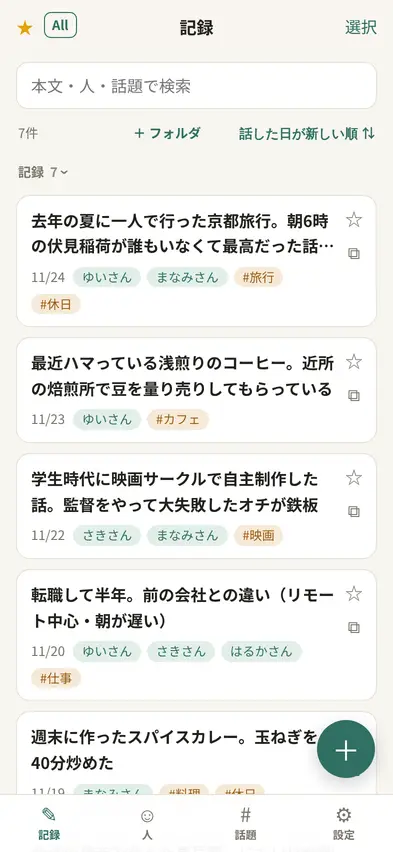
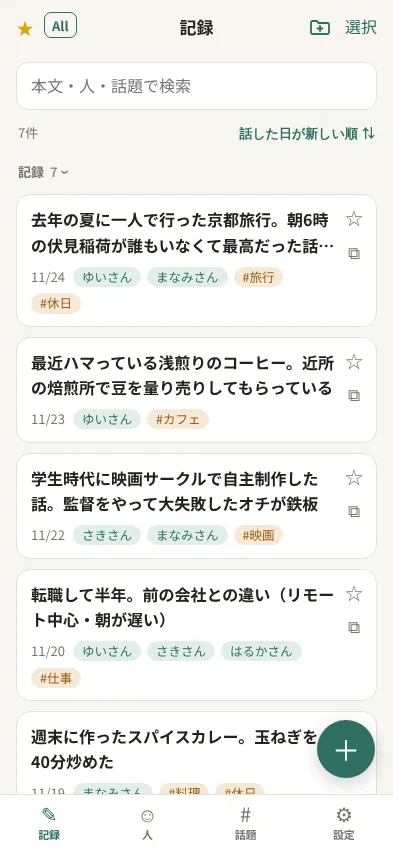
フォルダ作成を見出し右上のアイコンに(iPhoneのメモ風)
記録・人・話題の一覧で「＋ フォルダ」の文字ボタンをやめ、見出しの選択の左にフォルダ追加アイコンを置く。
件数と並べ替えは1行に戻す。使い方ガイドの画像と番号位置を更新。

Claude-Session: https://claude.ai/code/session_01QRm74mVWTBQZWExhZA7Aoa

diff --git a/src/ui/screens.tsx b/src/ui/screens.tsx
@@ -87,7 +87,7 @@ export function FolderScreen({ folderId }: { folderId: ID | null }) {
         title={folder ? folder.name : t('記録')}
         lead={<TitleIcons scope="entry" />}
         left={folder && <UpButton scope="entry" parent={parent} />}
-        right={<span className="header-actions">{!editing && <SelectButton />}{folder && !selecting && <button className="link" onClick={() => setEditing(!editing)}>{editing ? t('閉じる') : t('編集')}</button>}</span>}
+        right={<span className="header-actions">{!editing && !adding && !selecting && !flat && <FolderAddButton onClick={() => setAdding(true)} />}{!editing && <SelectButton />}{folder && !selecting && <button className="link" onClick={() => setEditing(!editing)}>{editing ? t('閉じる') : t('編集')}</button>}</span>}
       />
       <Crumbs scope="entry" path={path} />
       {editing && folder ? (
@@ -109,10 +109,7 @@ export function FolderScreen({ folderId }: { folderId: ID | null }) {
                 <span className="count">
                   {children.length > 0 && t('{n}フォルダ・', { n: children.length })}{t('{n}件', { n: memos.length })}
                 </span>
-                <span className="toolbar-right">
-                  {!adding && !selecting && !flat && <button className="link small-link" onClick={() => setAdding(true)}>{t('＋ フォルダ')}</button>}
-                  <SortSelect value={sort} options={ENTRY_SORTS} onChange={setSort} />
-                </span>
+                <SortSelect value={sort} options={ENTRY_SORTS} onChange={setSort} />
               </div>
               <FolderRows
                 scope="entry" folderId={folderId} children={children} count={deepCount} adding={adding} setAdding={setAdding} reorder={sort === 'manual'}
@@ -137,7 +134,7 @@ export function FolderScreen({ folderId }: { folderId: ID | null }) {
                 reorder={sort === 'manual'}
                 empty={
                   folder
-                    ? <>{t('このフォルダはまだ空です。')}<br />{t('右下の＋で記録を、「＋ フォルダ」でフォルダを作れます。')}</>
+                    ? <>{t('このフォルダはまだ空です。')}<br />{t('右下の＋で記録を、右上のフォルダのアイコンでフォルダを作れます。')}</>
                     : children.length ? t('フォルダに入っていない記録はありません') : <>{t('まだ記録がありません。')}<br />{t('右下の＋から、話したことを書いてみましょう。')}</>
                 }
              />}
@@ -389,7 +386,7 @@ export function NameFolderScreen({ kind, folderId }: { kind: NameKind; folderId:
         title={folder ? folder.name : label}
         lead={<TitleIcons scope={kind} />}
         left={folder && <UpButton scope={kind} parent={parent} />}
-        right={<span className="header-actions">{!editing && <SelectButton />}{folder && !selecting && <button className="link" onClick={() => setEditing(!editing)}>{editing ? t('閉じる') : t('編集')}</button>}</span>}
+        right={<span className="header-actions">{!editing && !adding && !selecting && !flat && <FolderAddButton onClick={() => setAdding(true)} />}{!editing && <SelectButton />}{folder && !selecting && <button className="link" onClick={() => setEditing(!editing)}>{editing ? t('閉じる') : t('編集')}</button>}</span>}
       />
       <Crumbs scope={kind} path={path} />
       {editing && folder ? (
@@ -418,10 +415,7 @@ export function NameFolderScreen({ kind, folderId }: { kind: NameKind; folderId:
                 <span className="count">
                   {children.length > 0 && t('{n}フォルダ・', { n: children.length })}{t(unit, { n: here.length })}
                 </span>
-                <span className="toolbar-right">
-                  {!adding && !selecting && !flat && <button className="link small-link" onClick={() => setAdding(true)}>{t('＋ フォルダ')}</button>}
-                  <SortSelect value={sort} options={NAME_SORTS} onChange={setSort} />
-                </span>
+                <SortSelect value={sort} options={NAME_SORTS} onChange={setSort} />
               </div>
               <FolderRows scope={kind} folderId={folderId} children={children} count={deepCount} adding={adding} setAdding={setAdding} reorder={sort === 'manual'} />
               <PinnedSplit kind={kind} items={here} sort={sort} restTitle={label} />
@@ -767,5 +761,17 @@ function Missing() {
       <Header title="" left={<button className="link" onClick={() => back()}>{t('‹ 戻る')}</button>} />
       <div className="empty">{t('見つかりませんでした（削除された可能性があります）')}</div>
     </div>
+  );
+}
+
+// iPhoneのメモと同じく、見出しの右上のアイコンでフォルダを作る
+function FolderAddButton({ onClick }: { onClick: () => void }) {
+  return (
+    <button className="icon-btn folder-add" onClick={onClick} aria-label={t('新しいフォルダ')} title={t('新しいフォルダ')}>
+      <svg width="24" height="24" viewBox="0 0 24 24" fill="none" stroke="currentColor" strokeWidth="1.8" strokeLinecap="round" strokeLinejoin="round" aria-hidden="true">
+        <path d="M3 7.5A1.5 1.5 0 0 1 4.5 6h4.2l2 2h8.8A1.5 1.5 0 0 1 21 9.5v8a1.5 1.5 0 0 1-1.5 1.5h-15A1.5 1.5 0 0 1 3 17.5z" />
+        <path d="M12 11v5M9.5 13.5h5" />
+      </svg>
+    </button>
   );
 }

diff --git a/src/ui/styles.css b/src/ui/styles.css
@@ -243,7 +243,6 @@ html, body { overscroll-behavior-y: none; }
 /* ---- v0.4 フォルダの入れ子 ---- */
 .folder-rows { margin-bottom: 12px; }
 .folder-icon { color: var(--topic); margin-right: 8px; }
-.toolbar-right { display: inline-flex; align-items: center; gap: 14px; }
 .small-link { font-size: 13px; font-weight: 600; padding: 4px 0; }
 .field .select { max-width: 100%; }
 .crumbs { display: flex; flex-wrap: wrap; align-items: center; gap: 2px; margin: -4px 2px 10px; font-size: 13px; }
@@ -295,6 +294,7 @@ html, body { overscroll-behavior-y: none; }
   color: var(--accent); font-size: 17px; line-height: 1;
 }
 .icon-btn.fav { color: var(--fav); }
+.icon-btn.folder-add { width: 34px; height: 34px; margin-right: -6px; }
 .icon-btn:active { background: var(--line); }
 .fav-btn {
   width: 32px; height: 32px; border-radius: 8px; display: inline-flex; align-items: center; justify-content: center;
@@ -358,7 +358,6 @@ body.dragging { cursor: grabbing; }
 .link.danger { color: var(--danger); }
 .header-actions { display: inline-flex; gap: 14px; align-items: center; }
 .header-actions .small-link { font-size: 16px; font-weight: 400; }
-.toolbar-right { white-space: nowrap; }
 .toolbar .count { white-space: nowrap; overflow: hidden; text-overflow: ellipsis; }
 
 /* ---- v0.10 入力欄の左寄せ・PC表示 ---- */
@@ -515,11 +514,8 @@ body.dragging { cursor: grabbing; }
 .img-count { font-size: 12px; color: var(--muted); }
 .toggle.nested { align-items: flex-start; padding-left: 30px; }
 .toggle.nested input { margin-top: 1px; flex: none; }
-/* 件数と「＋ フォルダ」・並べ替えが重ならないように: 幅が足りなければ右側を次の行へ回す。
-   iPhoneでは並べ替えのselectが16px固定になり、一番長い選択肢の幅まで広がるので幅の上限も付ける */
-.toolbar { flex-wrap: wrap; row-gap: 2px; }
-.toolbar .count { flex: none; overflow: visible; }
-.toolbar-right { margin-left: auto; max-width: 100%; min-width: 0; }
+/* 件数と並べ替えは1行。iPhoneでは並べ替えのselectが16px固定で一番長い選択肢の幅まで広がるので幅の上限を付ける */
+.toolbar .count { flex: none; }
 .sort { min-width: 0; }
 .sort select { max-width: 11em; min-width: 0; overflow: hidden; text-overflow: ellipsis; }
 /* 設定のカテゴリ(人・話題)の欄の小見出し */

diff --git a/src/i18n/en.ts b/src/i18n/en.ts
@@ -132,9 +132,8 @@ const en: Record<string, string> = {
   '入れる場所': 'Location',
   'フォルダ「{name}」を削除しますか？\n中身は消えず、1つ上の階層に移ります。': 'Delete folder "{name}"?\nIts contents will move up one level.',
   'このフォルダを削除': 'Delete this folder',
-  '＋ フォルダ': '+ Folder',
   'このフォルダはまだ空です。': 'This folder is empty.',
-  '右下の＋で記録を、「＋ フォルダ」でフォルダを作れます。': 'Use + at the bottom right to add a note, or "+ Folder" to add a folder.',
+  '右下の＋で記録を、右上のフォルダのアイコンでフォルダを作れます。': 'Use + at the bottom right to add a note, or the folder icon at the top right to add a folder.',
   'フォルダに入っていない記録はありません': 'No notes outside folders',
   'フォルダに入っていない人はいません': 'No people outside folders',
   'フォルダに入っていない話題はありません': 'No topics outside folders',

diff --git a/src/ui/GuideScreen.tsx b/src/ui/GuideScreen.tsx
@@ -11,7 +11,7 @@ const GUIDE: { img: string; title: string; lead: string; spots: Spot[] }[] = [
     img: 'entries', title: '記録', lead: '話した内容を1件ずつためる画面',
     spots: [
       { x: 50, y: 10, text: '本文・人・話題で検索（読み仮名でも）' },
-      { x: 42, y: 15.5, text: 'フォルダを作って分ける' },
+      { x: 81.5, y: 3.2, text: 'フォルダを作って分ける' },
       { x: 90, y: 25.5, text: '☆でお気に入り。長押しで移動・並べ替え・削除' },
       { x: 88, y: 88, text: '＋で新しい記録' },
     ],
